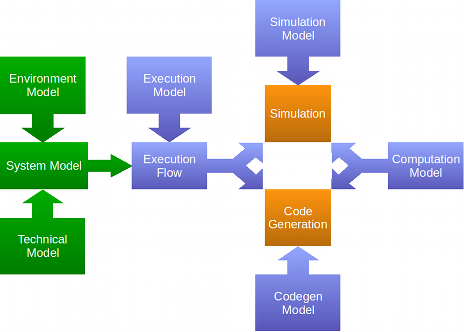
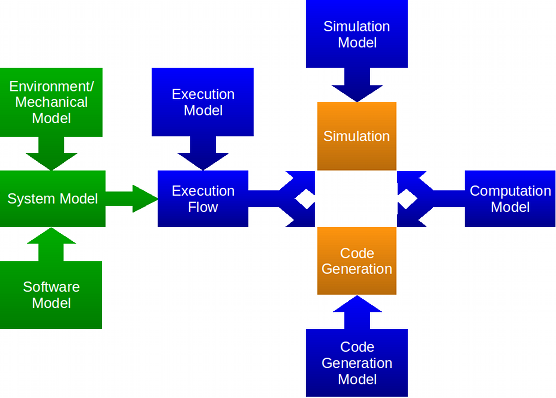
Proposal changes.

diff --git a/media/proposals/damos-proposal/proposal.html b/media/proposals/damos-proposal/proposal.html
@@ -68,7 +68,7 @@ Forum.</p>
 
 <p>In the field of science and engineering, data flow-oriented modeling is commonly used for analyzing and designing systems.
 On the one hand it allows scientists and engineers to focus on the data processing aspects of a system,
-and on the other hand it provides a means to specify the physical environment of the system to
+and on the other hand it provides a means to specify the dynamics of the mechanical components and the physical environment of the system to
 facilitate close-to-real-world system simulation.</p>
 
 <p>Since many scientists and engineers already utilize Eclipse for software development using CDT, DSDP, and other technologies,
@@ -82,7 +82,8 @@ it would be beneficial to perform system modeling, simulation, and code generati
 	cannot have an open-ended scope.
  -->
  
-This project will provide a data flow-oriented modeling environment.
+This project will provide a data flow-oriented modeling environment. 
+Furthermore, it will provide support to derive own data flow-oriented languages based on the structural and diagram editing components of this project.
 
 <h2>Description</h2>
 
@@ -121,28 +122,67 @@ it is most commonly used in control systems engineering and digital signal proce
 
 <p>The initial contribution consists of sources found in the current Damos repository at <a href="http://eclipselabs.org/p/yakindu">EclipseLabs</a>.</p>
 
-<p>The main components are:</p>
+<h3>Architecture</h3>
 
-<ul>
+<p>In order to facilitate customization, Damos is split into a set of top-level components (i.e. Eclipse features).
+There are two main groups of components. The first group contains components providing the structural semantics
+and the diagram editing features of the modeling environment (orange).
+The second group provides simulation and code generation components as well as the standard block library (green).
+This enables other projects to build their own data flow-oriented languages by reusing the structural semantics
+and diagram editing components, and without being required to ship unneeded components.</p>
 
-<li>Ecore models for specifying the semantics of data flow-oriented systems.
-This enables users to perform model analysis and transformation using well-known Eclipse modeling technologies.</li>
+<p></p>
 
-<li>A graphical block diagram editor for editing system models.
-This editor is also used to visualize real-time simulation results using virtual instruments.</li>
+<p><img src="architecture.png"/></p>
 
-<li>A simulation environment that utilizes adaptive and fixed step size solvers to simulate continuous systems.
-It also provides asynchronous and real-time simulation capabilities.</li>
+<h3>Main Components</h3>
 
-<li>Code generation tooling, which will initially include a C code generator.</li>
+<h4>Models</h4>
 
-<li>Standard block library containing commonly used blocks.
-If required, the user will be able to define his/her own blocks.
-This can be done using the declarative programming language Mscript, which is part of this project.</li>
+<p>EMF-based models are used to specify the semantics of data flow-oriented systems.
+This enables users to perform model analysis and transformation using well-known Eclipse modeling technologies.<p>
 
-<li>Extension mechanisms to customize and extend various aspects of the tooling.</li>
+<p>System models are comprised of models describing the mechanical components and the physical environment of a device,
+and the software model that will later be executed on that device.
+These models are described graphically using block diagrams.</p>
 
-</ul>
+<p>When performing model simulation or code generation, an execution flow is first derived from the system model.
+The execution flow contains the execution graphs (i.e. the execution order of system components) of the system model.
+The execution-specific configuration must be provided in an execution model.
+The simulation and the code generation models are used to configure the simulation process (e.g. solver configuration)
+and the code generator (e.g. target directories), respectively.
+The computation model specifies the computation algorithms utilized in the target device (e.g. fixed-point arithmetic vs. floating-point arithmetic).</p>
+
+<p>Damos provides a GMF-based graphical block diagram editor for the system model.
+For all other models, textual model editors based on Xtext are provided.</p>
+
+<p><img src="models.png"/></p>
+
+<h4>Block Diagram Editor</h4>
+
+<p>The graphical block diagram editor is used for editing system models.
+It can also be used to visualize real-time simulation results using virtual instruments.</p>
+
+<p><a href="block-diagram-editor.png"><img src="block-diagram-editor-small.png"/></a></p>
+
+<h4>Simulation Environment</h4>
+
+<p>The simulation environment utilizes adaptive and fixed step size solvers to simulate continuous systems.
+It also provides asynchronous and real-time simulation capabilities.</p>
+
+<h4>Code Generator</h4>
+
+<p>The code generation tooling initially includes a standard compliant C code generator.</p>
+
+<h4>Block Library</h4>
+
+<p>The standard block library contains commonly used blocks.
+If required, the user is able to define his/her own blocks.
+This can be done using the declarative programming language Mscript, which is part of this project.</p>
+
+<h4>Extension Mechanisms</h4>
+
+<p>Extension mechanisms can be used to customize and extend various aspects of the tooling.</p>
 
 <h2>Legal Issues</h2>
 
